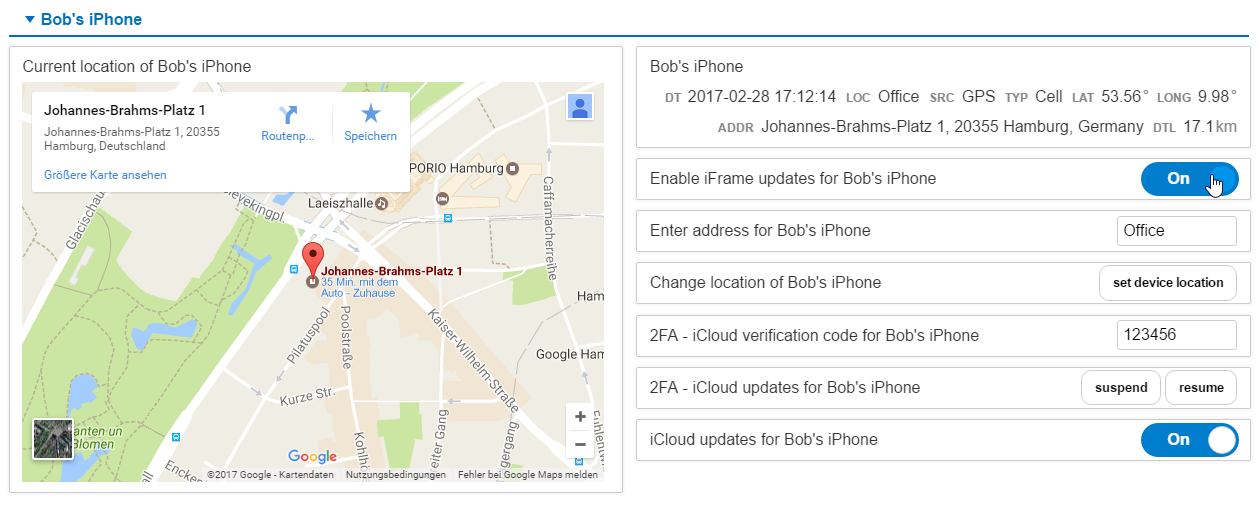
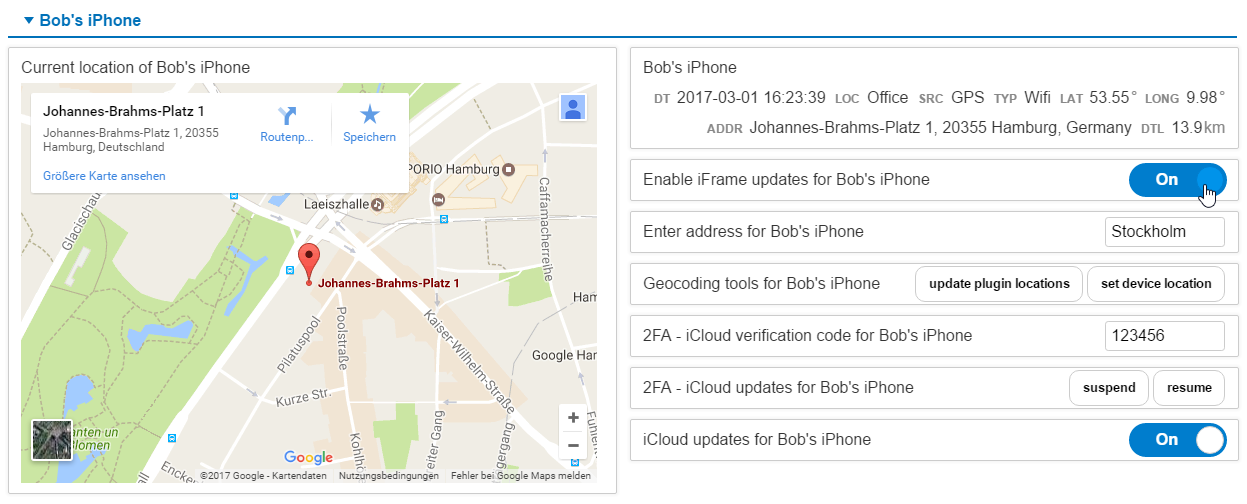
public release 0.9.2 with updated documentation

diff --git a/CookBook.md b/CookBook.md
@@ -3,29 +3,30 @@
 <img src="https://raw.githubusercontent.com/bstrebel/pimatic-phone/master/screenshots/iframe.png" width="1020">
 
 Step-by-step instructions to setup a phone device with Google iFrame
-mapping, geocoding and iCloud uopdate control as outlined in the above screenshot.
+mapping, geocoding and iCloud update control as outlined in the above
+screenshot.
 
 ## Essentials
-1. Install **pimatic-phone plugin**, go to plugin settings and enter at
+1. Install pimatic-phone **plugin**, go to plugin settings and enter at
    least the Home location (name=home, tag=Home) for the device. Enter
    latitude/longitude (radius=250) and address for your home location as
-   well as the SSID of your home WiFi access point. You can enter
-   additional locations later but you have to restart pimatic after any
-   change of the plugin settings.
-2. Restart pimatic
-3. Add the **PhoneDevice** (id=phone_PHONE, name=Bob's iPhone, debug=Yes) and
+   well as the SSID of your home WiFi access point. Enter additional
+   locations you want to use in location based rules. You might left the
+   GPS coordinates empty and use geocoding (see below) to let Google
+   fill in latitude and longitude for the location.
+2. Add the **PhoneDevice** (id=phone_PHONE, name=Bob's iPhone, debug=Yes) and
    review all the other device settings
-4. Go to page settings and add the phone device
-5. Use device API (updateTag) or rule actions (set tag of ...) to play
+3. Go to **page** settings and add the phone device
+4. Use device **API** (updateTag) or **rule actions** (set tag of ...) to play
    around with your new phone device
 
 ## iFrame device
 1. Register Google project and activate **Google Maps Embed API** and **Google
    Maps Geocoding API** and write down the generated API key.
 2. Install [patched pimatic-iframe plugin](https://github.com/bstrebel/pimatic-iframe), restart pimatic
-3. Create a display **group** for phone components group_PHONE
-4. Create **iframeDevice** (id=iframe_PHONE, name=Current location of Bob's
-   iPhone, width=99%)
+3. Create a display **group** for phone components with id=group_PHONE
+4. Create **iframeDevice** (id=iframe_PHONE, name=Current location of
+   Bob's iPhone, width=99%, url=https://www.google.com/maps/embed/v1/place?key={key}&q={address})
 5. Create **DummySwitch** device (id=iframe_switch_PHONE, name=Enable iFrame
    updates for Bob's iPhone)
 6. Update iFrame section of the phone_PHONE device configuration
@@ -36,13 +37,20 @@ mapping, geocoding and iCloud uopdate control as outlined in the above screensho
 
 ## Geocoding
 1. Create **Variable** $address_PHONE (type=Value)
-2. Create **VariableInputDevice** (variable=address_PHONE)
-3. Create a **ButtonsDevice** (id=buttons_address_PHONE) with one button
-   (id=button_set_address_PHONE, text=set device location)
-4. Create rule (id=set_address_PHONE, name=Set location of Bob's iPhone)
+2. Create **VariableInputDevice** (id=input_address_PHONE,
+   variable=address_PHONE)
+3. Create a **ButtonsDevice** (id=buttons_address_PHONE,
+   text=Geolocation tools for PHONE) with 2 buttons
+   (id=button_set_address_PHONE, text=set device address and
+   id=button_update_locations_PHONE, text=update plugin locations)
+4. Create rules (id=set_address_PHONE, name=Set location of Bob's iPhone
+   and id=update_locations_PHONE)
    ```
-   when button_set_address_PHONE is pressed then set address of
-   phone_PHONE to "$address_PHONE"
+   when button_set_address_PHONE is pressed then set address of phone_PHONE to "$address_PHONE"
+   ```
+   ```
+   when button_update_locations_PHONE is pressed then execute \
+    "curl --user admin:admin --silent --request GET http://localhost:8080/api/device/phone_PHONE/updatePluginConfig"
    ```
 Enter address tokens (including your own location tags) and check the
 results of (reverse) geocoding on the map. Create location based rules
@@ -68,3 +76,10 @@ and check them by manuall change the device location, and, ...
    ```
    when button_resume_PHONE is pressed then resume phone_PHONE with "$verify_PHONE"
    ```
+
+## Mobile device configuration
+1. Android: use Tasker, pimatic-location app, Locative or any other
+   geofencing app to update the device location by calling the
+   appropriate API function
+2. iOS: configure iCloud updates for the device or install a suitable
+   gefencing app like Locative

diff --git a/README.md b/README.md
@@ -10,6 +10,11 @@ pimatic-phone
 
 <img src="https://raw.githubusercontent.com/bstrebel/pimatic-phone/master/screenshots/iframe.png" width="1020">
 
+Step-by-step instructions to setup a phone device with Google iFrame
+mapping, geocoding and iCloud update control as outlined in the above
+screenshot are available in a seperate
+[Cookbook](https://github.com/bstrebel/pimatic-phone/blob/master/CookBook.md)
+
 <img src="https://raw.githubusercontent.com/bstrebel/pimatic-phone/master/screenshots/frontend.png" width="1020">
 
 A generic pimatic plugin for mobile devices to provide location based
@@ -613,11 +618,17 @@ Roadmap
 Changelog
 ---------
 
-v.0.9.0
+v.0.9.2
+
+- public release
+- new device action updatePluginConfig
+
+v.0.9.1
 
 - use (reverse) geocoding from Googlke Maps API
   make sure, your api key is activated for **Embed** and **Geocoding** API
 - addtional attribute "address" (from config or reverseGeocoding)
+- addtitional action updateAddress for reverse geocoding
 - plugin an device configuratin changes (ignore warnings thrown on first
     startup with new plugin configuration
 
